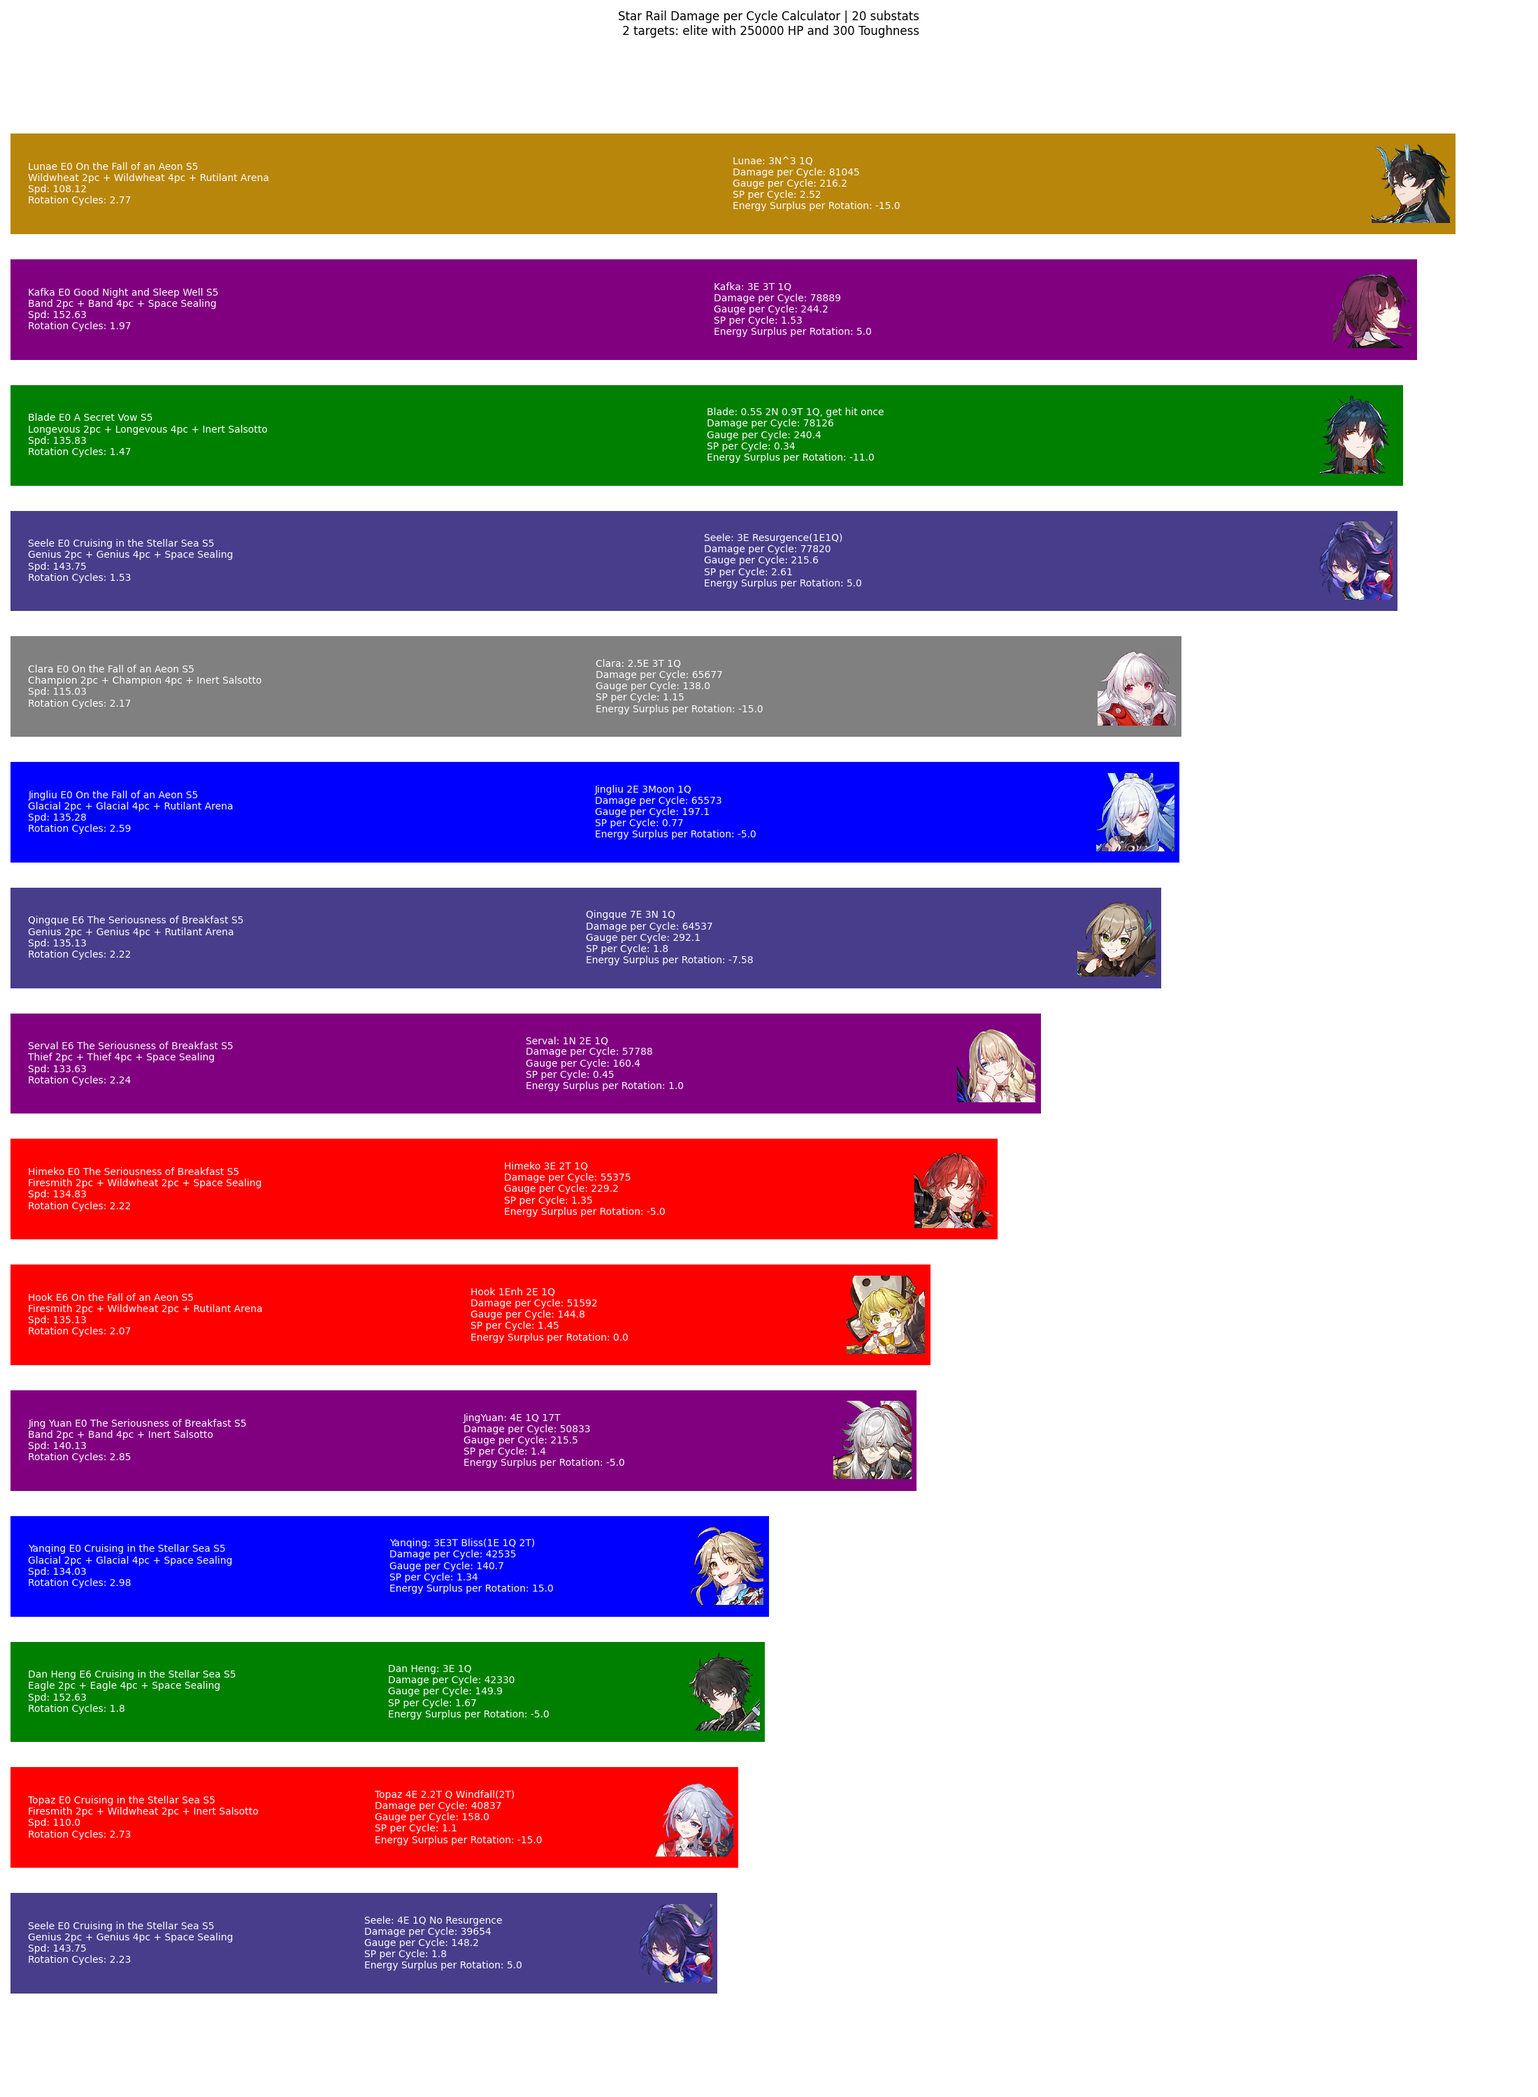
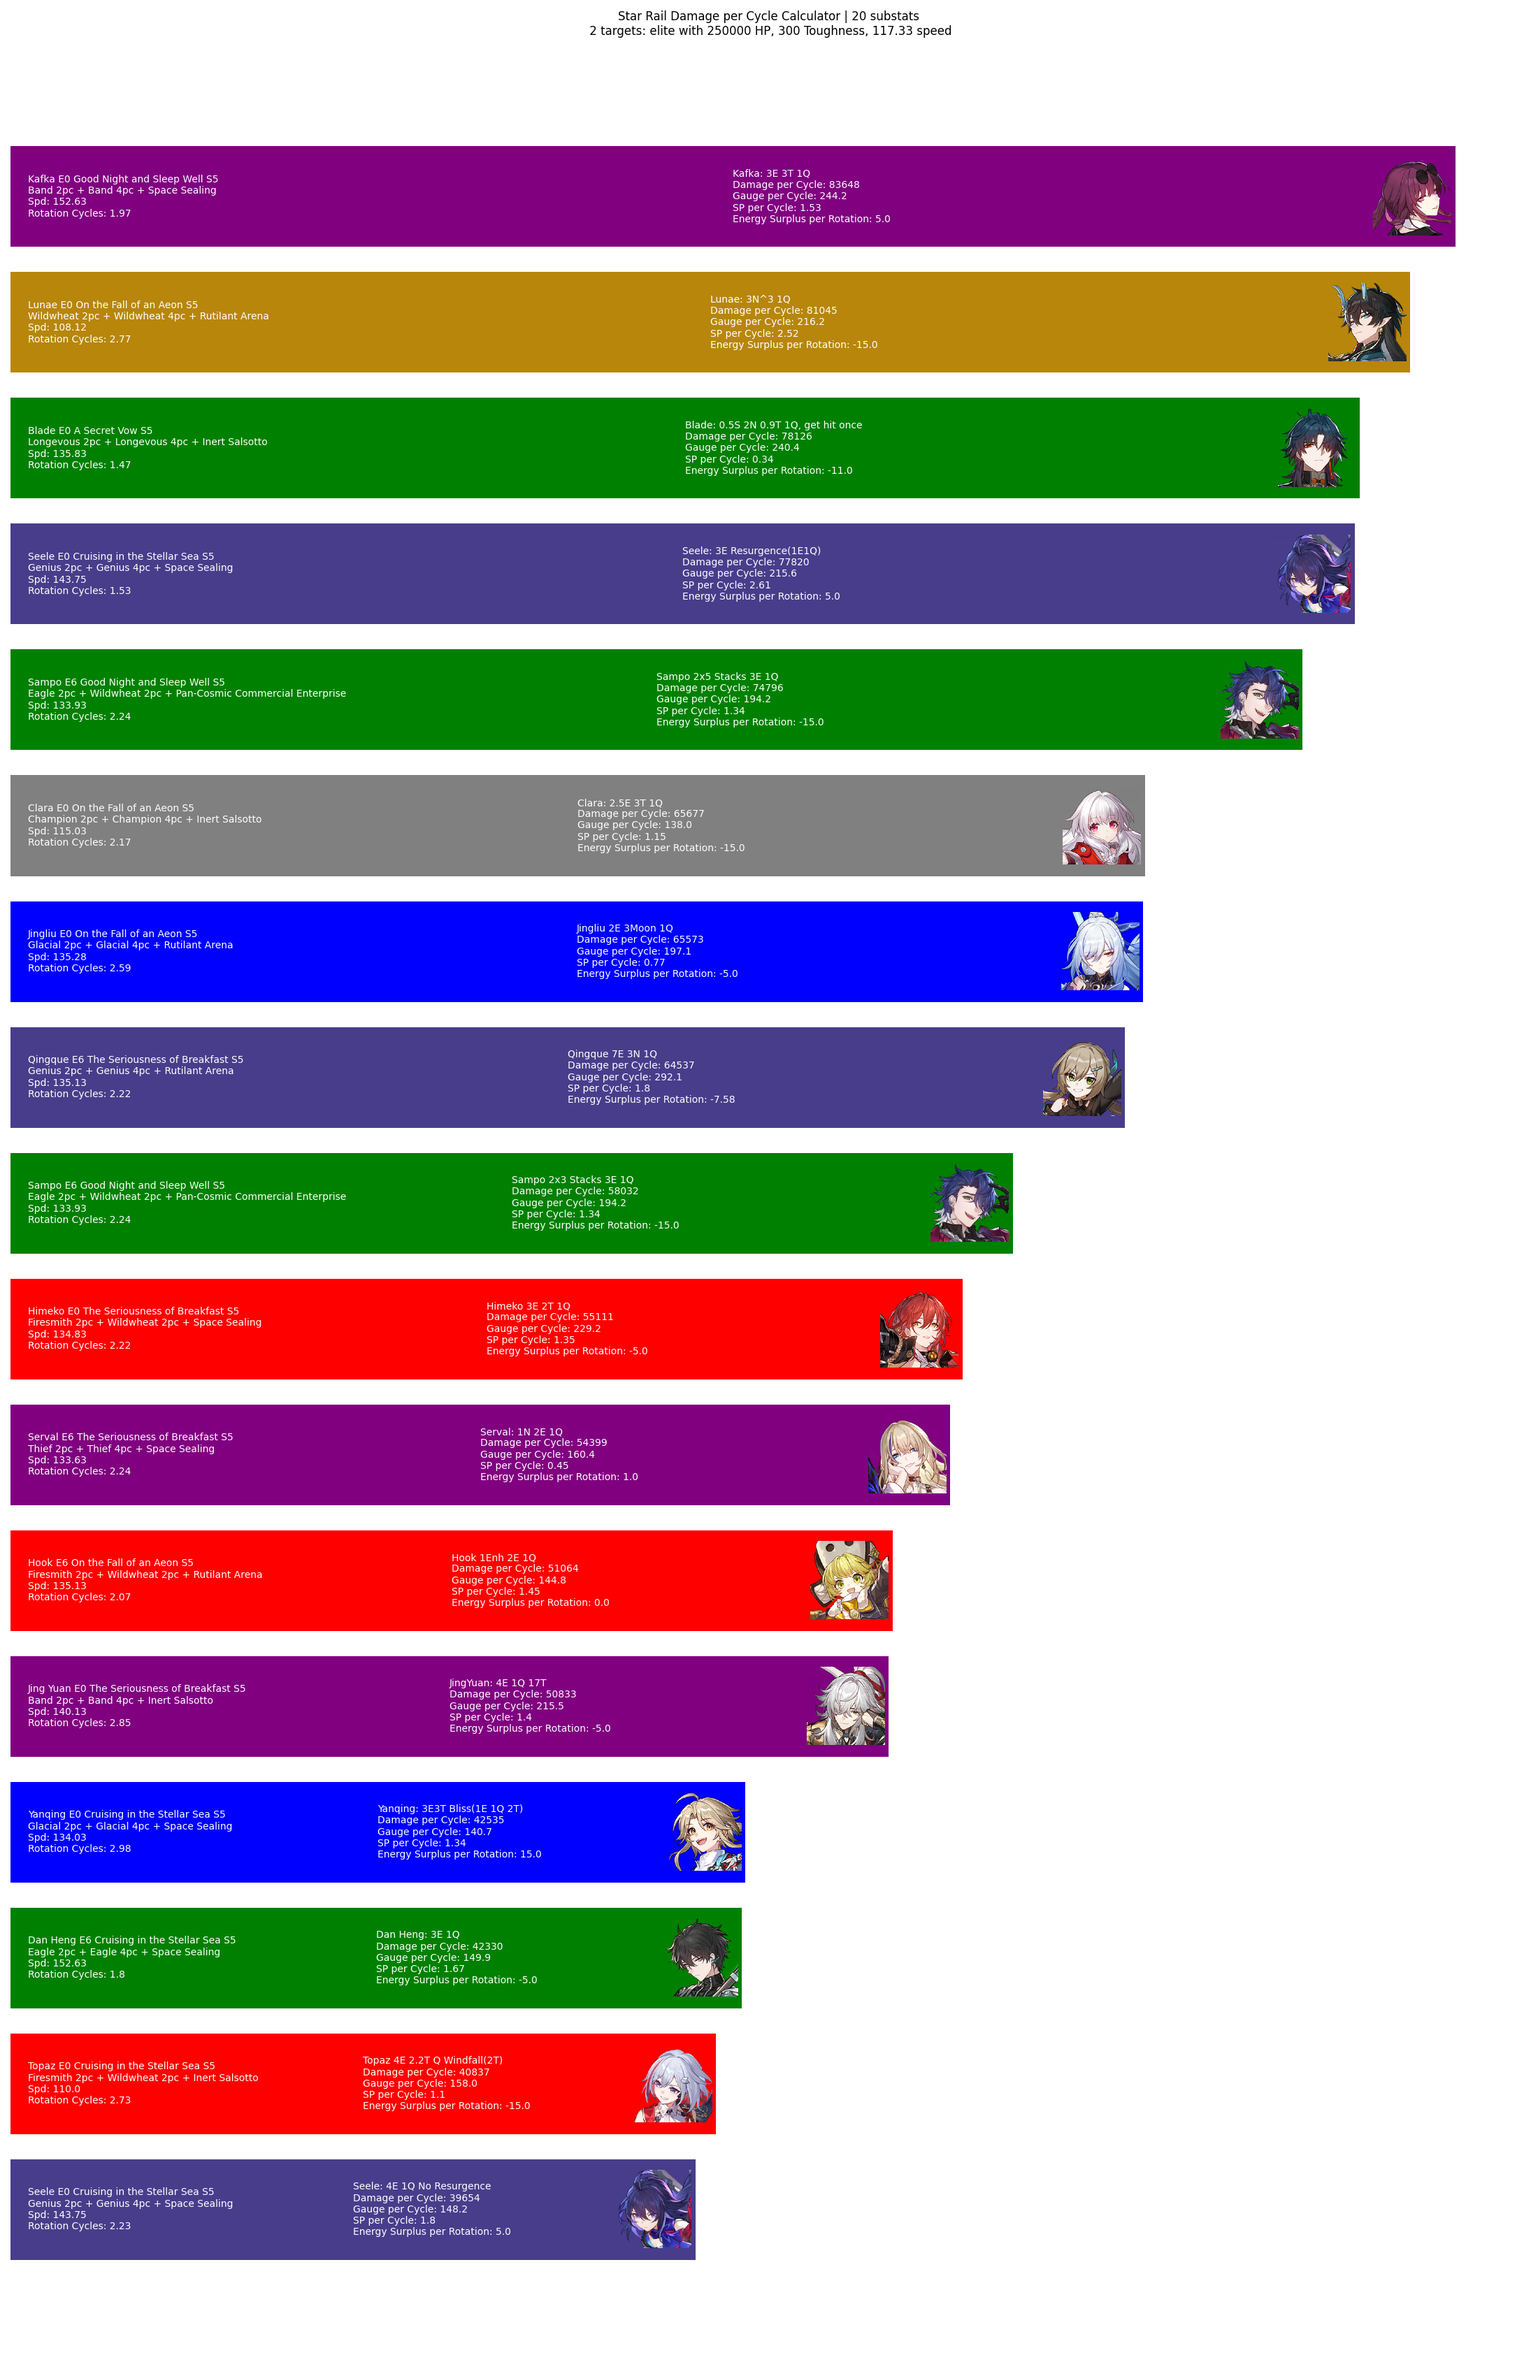
Sampo

diff --git a/characters/nihility/Sampo.py b/characters/nihility/Sampo.py
@@ -5,30 +5,35 @@ from baseClasses.BaseMV import BaseMV
 from baseClasses.RelicSet import RelicSet
 from baseClasses.RelicStats import RelicStats
 
-class Kafka(BaseCharacter):
+class Sampo(BaseCharacter):
   def __init__(self,
                relicstats:RelicStats,
                lightcone:BaseLightCone=None,
                relicsetone:RelicSet=None,
                relicsettwo:RelicSet=None,
                planarset:RelicSet=None,
+               ultUptime:float=2.0/3.0,
+               windshearUptime:float=1.0,
+               windshearStacks:float=5.0,
                **config):
     super().__init__(lightcone=lightcone, relicstats=relicstats, relicsetone=relicsetone, relicsettwo=relicsettwo, planarset=planarset, **config)
-    self.loadCharacterStats('Kafka')
+    self.loadCharacterStats('Sampo')
+    self.ultUptime = ultUptime
+    self.windshearUptime = windshearUptime
+    self.windshearStacks = windshearStacks
     
     # Motion Values should be set before talents or gear
     self.motionValueDict['basic'] = [BaseMV(type='basic',area='single', stat='atk', value=1.0, eidolonThreshold=3, eidolonBonus=0.1)]
-    self.motionValueDict['skill'] = [BaseMV(type='skill',area='single', stat='atk', value=1.6, eidolonThreshold=3, eidolonBonus=0.16),
-                                     BaseMV(type='skill',area='adjacent', stat='atk', value=0.6, eidolonThreshold=3, eidolonBonus=0.06)]
-    self.motionValueDict['dot'] = [BaseMV(type=['dot','ultimate'],area='single', stat='atk', value=2.90, eidolonThreshold=5, eidolonBonus=0.2828)]
-    self.motionValueDict['ultimate'] = [BaseMV(type='ultimate',area='all', stat='atk', value=0.8, eidolonThreshold=5, eidolonBonus=0.064)]
-    self.motionValueDict['talent'] = [BaseMV(type=['talent','followup'],area='single', stat='atk', value=1.4, eidolonThreshold=5, eidolonBonus=0.196)]
+    self.motionValueDict['skill'] = [BaseMV(type='skill',area='single', stat='atk', value=0.56, eidolonThreshold=3, eidolonBonus=0.056)]
+    self.motionValueDict['ultimate'] = [BaseMV(type='ultimate',area='all', stat='atk', value=1.6, eidolonThreshold=5, eidolonBonus=0.128)]
+    self.motionValueDict['dot'] = [BaseMV(type=['talent','dot'],area='single', stat='atk', value=0.52, eidolonThreshold=5, eidolonBonus=0.052)]
+    self.motionValueDict['dote6'] = [BaseMV(type=['talent','dot'],area='single', stat='atk', value=0.52+0.15, eidolonThreshold=5, eidolonBonus=0.052)]
     
     # Talents
+    self.VulnerabilityType['dot'] += (0.32 if self.eidolon >= 5 else 0.3) * self.ultUptime
+    self.bonusEnergyType['ultimate'] += 10.0
     
     # Eidolons
-    self.DmgType['dot'] += 0.25 if self.eidolon >= 2 else 0.0
-    self.DmgType['dot'] += 0.30 / self.numEnemies if self.eidolon >= 1 else 0.0
     
     # Gear
     self.equipGear()
@@ -38,6 +43,7 @@ class Kafka(BaseCharacter):
     retval.damage = self.getTotalMotionValue('basic')
     retval.damage *= self.getTotalCrit('basic')
     retval.damage *= self.getTotalDmg('basic')
+    retval.damage *= self.getVulnerabilityType('basic')
     retval.damage = self.applyDamageMultipliers(retval.damage)
     retval.gauge = 30.0 * (1.0 + self.breakEfficiency)
     retval.energy = ( 20.0 + self.bonusEnergyType['basic'] ) * ( 1.0 + self.ER )
@@ -46,20 +52,21 @@ class Kafka(BaseCharacter):
     return retval
 
   def useSkill(self):
-    num_adjacents = min( self.numEnemies - 1, 2 )
+    num_hits = 6.0 if self.eidolon else 5.0
     retval = BaseEffect()
-    retval.damage = self.getTotalMotionValue('skill')
+    retval.damage = self.getTotalMotionValue('skill') * num_hits
     retval.damage *= self.getTotalCrit('skill')
     retval.damage *= self.getTotalDmg('skill')
+    retval.damage *= self.getVulnerabilityType('skill')
     retval.damage = self.applyDamageMultipliers(retval.damage)
-    retval.gauge = ( 60.0 + 30.0 * num_adjacents ) * (1.0 + self.breakEfficiency)
+    retval.gauge = ( 15.0 + 15.0 * num_hits ) * (1.0 + self.breakEfficiency)
     retval.energy = ( 30.0 + self.bonusEnergyType['skill'] ) * ( 1.0 + self.ER )
     retval.skillpoints = -1.0
     retval.actionvalue = 1.0 - min(1.0,self.advanceForwardType['skill'])
     
-    dotExplosion = self.useDot() + self.useBreakDot()
-    dotExplosion *= 0.78 if self.eidolon >= 3 else 0.75
-    
+    # assume we hit up to 3 enemies
+    dotExplosion = self.useDot() * num_hits
+    dotExplosion *= 0.08 if self.eidolon >= 4 else 0.0
     retval += dotExplosion
     return retval
 
@@ -68,36 +75,21 @@ class Kafka(BaseCharacter):
     retval.damage = self.getTotalMotionValue('ultimate')
     retval.damage *= self.getTotalCrit('ultimate')
     retval.damage *= self.getTotalDmg('ultimate')
+    retval.damage *= self.getVulnerabilityType('ultimate')
     retval.damage = self.applyDamageMultipliers(retval.damage)
     retval.gauge = 60.0 * self.numEnemies * (1.0 + self.breakEfficiency)
     retval.energy = ( 5.0 + self.bonusEnergyType['ultimate'] ) * ( 1.0 + self.ER )
     retval.actionvalue = 0.0 - min(1.0,self.advanceForwardType['ultimate'])
-    
-    # assume breakDot single target, usualDot AOE
-    dotExplosion = self.useDot() * self.numEnemies + self.useBreakDot()
-    dotExplosion *= 1.0 if self.eidolon >= 5 else 1.04
-    
-    retval += dotExplosion
-    return retval
-
-  def useTalent(self):
-    retval = BaseEffect()
-    retval.damage = self.getTotalMotionValue('talent')
-    retval.damage *= self.getTotalCrit('talent')
-    retval.damage *= self.getTotalDmg('talent')
-    retval.damage = self.applyDamageMultipliers(retval.damage)
-    retval.gauge = 30.0 * (1.0 + self.breakEfficiency)
-    retval.energy = ( 10.0 + self.bonusEnergyType['talent'] ) * ( 1.0 + self.ER )
-    retval.skillpoints = 0.0
-    retval.actionvalue = 0.0 - min(1.0,self.advanceForwardType['talent'])
     return retval
 
   def useDot(self):
     retval = BaseEffect()
-    retval.damage = self.getTotalMotionValue('dot')
+    retval.damage = self.getTotalMotionValue('dote6') if self.eidolon >= 6 else self.getTotalMotionValue('dot')
     # no crits on dots
-    retval.damage *= self.getTotalDmg('dot') + (1.56 if self.eidolon >= 6 else 0.0)
+    retval.damage *= self.windshearStacks * self.windshearUptime
+    retval.damage *= self.getTotalDmg('dot')
+    retval.damage *= self.getVulnerabilityType('dot')
     retval.damage = self.applyDamageMultipliers(retval.damage)
-    retval.energy = ( 0.0 + self.bonusEnergyType['dot'] + (2.0 if self.eidolon >= 4 else 0.0) ) * ( 1.0 + self.ER )
+    retval.energy = ( 0.0 + self.bonusEnergyType['dot'] ) * ( 1.0 + self.ER )
     retval.actionvalue = 0.0 - min(1.0,self.advanceForwardType['dot'])
     return retval

diff --git a/main.py b/main.py
@@ -15,6 +15,7 @@ from characters.destruction.Jingliu import Jingliu
 from characters.erudition.JingYuan import JingYuan
 from characters.nihility.Kafka import Kafka
 from characters.destruction.Lunae import Lunae
+from characters.nihility.Sampo import Sampo
 from characters.hunt.Seele import Seele
 from characters.erudition.Serval import Serval
 from characters.hunt.Topaz import Topaz
@@ -106,7 +107,7 @@ if __name__ == '__main__':
     
     config = copy(Configuration)
     config['numEnemies'] = 2
-    config['enemySpeed'] = 132
+    config['enemySpeed'] = 132 / 1.125 # assume 25% action delay every 2 enemy turns from toughness break
     
     # Kafka
     KafkaCharacter = Kafka(relicstats = RelicStats(mainstats = ['percAtk', 'flatSpd', 'percAtk', 'lighDmg'],
@@ -383,5 +384,38 @@ if __name__ == '__main__':
     ]
     
     DefaultEstimator('Hook 1Enh 2E 1Q', HookRotation, HookCharacter, config, CharacterDict, EffectDict, dotMode='alwaysBlast')
+    
+    # Sampo
+    SampoCharacter = Sampo(RelicStats(mainstats = ['percAtk', 'flatSpd', 'percAtk', 'windDmg'],
+                            substats = {'percAtk': 7, 'flatSpd': 3, 'EHR': 10}),
+                lightcone = GoodNightAndSleepWell(**config),
+                relicsetone = EagleOfTwilightLine2pc(),
+                relicsettwo = MusketeerOfWildWheat2pc(),
+                planarset = PanCosmicCommercialEnterprise(),
+                **config)
+    
+    SampoRotation = [ # 
+            SampoCharacter.useSkill() * 3,
+            SampoCharacter.useUltimate(),
+    ]
+    
+    DefaultEstimator('Sampo 2x5 Stacks 3E 1Q', SampoRotation, SampoCharacter, config, CharacterDict, EffectDict, dotMode='alwaysBlast')
+    
+    # Sampo
+    SampoCharacter = Sampo(RelicStats(mainstats = ['percAtk', 'flatSpd', 'percAtk', 'windDmg'],
+                            substats = {'percAtk': 7, 'flatSpd': 3, 'EHR': 10}),
+                lightcone = GoodNightAndSleepWell(**config),
+                relicsetone = EagleOfTwilightLine2pc(),
+                relicsettwo = MusketeerOfWildWheat2pc(),
+                planarset = PanCosmicCommercialEnterprise(),
+                windshearStacks=3.0,
+                **config)
+    
+    SampoRotation = [ # 
+            SampoCharacter.useSkill() * 3,
+            SampoCharacter.useUltimate(),
+    ]
+    
+    DefaultEstimator('Sampo 2x3 Stacks 3E 1Q', SampoRotation, SampoCharacter, config, CharacterDict, EffectDict, dotMode='alwaysBlast')
         
     visualize(CharacterDict, EffectDict, **config)

diff --git a/testCases.py b/testCases.py
@@ -16,6 +16,7 @@ from characters.destruction.Jingliu import Jingliu
 from characters.erudition.JingYuan import JingYuan
 from characters.nihility.Kafka import Kafka
 from characters.destruction.Lunae import Lunae
+from characters.nihility.Sampo import Sampo
 from characters.hunt.Seele import Seele
 from characters.erudition.Serval import Serval
 from characters.hunt.Yanqing import Yanqing
@@ -258,3 +259,20 @@ enhancedSkill = HookCharacter.useEnhancedSkill()
 print('Enhanced Skill Damage - Mine: {} - Grimro: {}'.format(enhancedSkill.damage,(30500.3661+16813.3843)*0.95)) # 0.95 to factor in toughness multiplier
 ultimate = HookCharacter.useUltimate()
 print('Ultimate Damage - Mine: {} - Grimro: {}'.format(ultimate.damage,(22010.24854+16813.3843)*0.95)) # 0.95 to factor in toughness multiplier
+
+print('##### Sampo #####')
+SampoCharacter = Sampo(RelicStats(mainstats = ['percAtk', 'percAtk', 'percAtk', 'windDmg'],
+                        substats = {'percAtk': 12, 'flatSpd': 8, 'EHR': 4}),
+            lightcone = GoodNightAndSleepWell(**config),
+            relicsetone = EagleOfTwilightLine2pc(),
+            relicsettwo = MusketeerOfWildWheat2pc(),
+            planarset = SpaceSealingStation(),
+            ultUptime=1.0,
+            **config)
+
+skill = SampoCharacter.useSkill()
+print('Skill Damage - Mine: {} - Grimro: {}'.format(skill.damage,(16234.03438+9801.510376)*0.95)) # 0.95 to factor in toughness multiplier
+dot = SampoCharacter.useDot() * config['numEnemies']
+print('Dot Damage - Mine: {} - Grimro: {}'.format(dot.damage,61259.43985*0.95)) # 0.95 to factor in toughness multiplier
+ultimate = SampoCharacter.useUltimate()
+print('Ultimate Damage - Mine: {} - Grimro: {}'.format(ultimate.damage,22769.81446*0.95)) # 0.95 to factor in toughness multiplier

diff --git a/baseClasses/BaseCharacter.py b/baseClasses/BaseCharacter.py
@@ -87,6 +87,16 @@ class BaseCharacter(object):
       'followup':0.0,
       'dot':0.0,
     }
+    self.VulnerabilityType = {
+      'basic':0.0,
+      'enhancedBasic':0.0,
+      'skill':0.0,
+      'enhancedSkill':0.0,
+      'ultimate':0.0,
+      'talent':0.0,
+      'followup':0.0,
+      'dot':0.0,
+    }
     
     self.CRType = {
       'basic':0.0,
@@ -245,6 +255,13 @@ class BaseCharacter(object):
       return 1.0 + self.Dmg + elementDmg[self.element] + bonuses
     else:
       return 1.0 + self.Dmg + elementDmg[self.element] + self.DmgType[type]
+
+  def getVulnerabilityType(self, type='None'):
+    if isinstance(type, list):
+      bonuses = sum([self.VulnerabilityType[x] for x in type])
+      return 1.0 + bonuses
+    else:
+      return 1.0 + self.VulnerabilityType[type]
 
   def getTotalSpd(self):
     return self.baseSpd * ( 1 + self.percSpd ) + self.flatSpd

diff --git a/visualizer/visualizer.py b/visualizer/visualizer.py
@@ -77,7 +77,7 @@ def visualize(CharacterDict:dict, EffectDict:dict, **config):
     plt.axis("off")
     plt.xticks([])
     plt.yticks([])
-    plt.title('Star Rail Damage per Cycle Calculator | 20 substats\n {} targets: {} with {} HP and {} Toughness'.format(config['numEnemies'], config['enemyType'], config['enemyMaxHP'], config['enemyToughness']))
+    plt.title('Star Rail Damage per Cycle Calculator | 20 substats\n {} targets: {} with {} HP, {} Toughness, {:.2f} speed'.format(config['numEnemies'], config['enemyType'], config['enemyMaxHP'], config['enemyToughness'], config['enemySpeed']))
     plt.tight_layout()
     plt.savefig('visualizer\\visual.png')
     plt.show()
